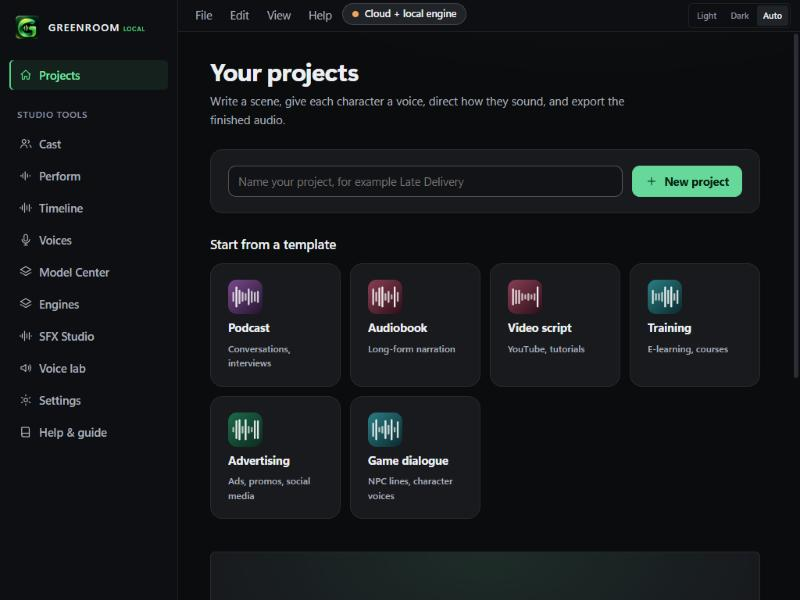
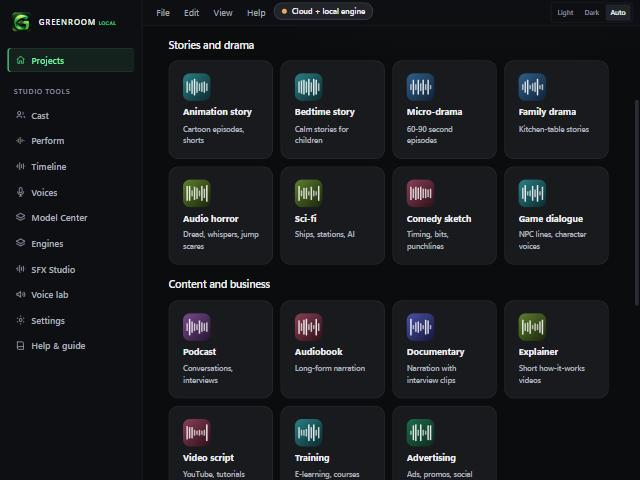
0.2.3: 15 templates (animation story, micro-drama, family drama, horror, sci-fi, comedy, more), optional card art

diff --git a/app/src/templates.ts b/app/src/templates.ts
@@ -1,9 +1,107 @@
-/** Starting points on the home screen. Each is a short script in the normal `NAME: line` format, so it is edited like any other. */
-export interface Template { id: string; title: string; tagline: string; script: string }
+/** Starting points on the home screen. Each is a short script in the normal `NAME: line` format, so it is edited like any other.
+ *  A picture is optional: put `<id>.webp` in app/public/templates/ (see docs/TEMPLATE_ART_PROMPTS.md); without one the card shows a badge. */
+export type TemplateGroup = "story" | "content";
+export interface Template { id: string; title: string; tagline: string; group: TemplateGroup; script: string }
+
+export const GROUP_LABEL: Record<TemplateGroup, string> = { story: "Stories and drama", content: "Content and business" };
 
 export const TEMPLATES: Template[] = [
   {
-    id: "podcast", title: "Podcast", tagline: "Conversations, interviews",
+    id: "animation", title: "Animation story", tagline: "Cartoon episodes, shorts", group: "story",
+    script: `# Scene 1: The Glowing Path
+NARRATOR (storybook warm): Deep in Lantern Wood, where the trees hum at night, a small fox named Pip found something that was not supposed to be there.
+PIP (excited): [gasps] A robot! A real, actual robot, and he is stuck in the mud!
+BOLO (robotic, sleepy): Greetings. I am Bolo. I appear to have been asleep for... [beeps] four hundred years.
+PIP (laughs): Four hundred years? You must be starving.
+BOLO: I run on moonlight. And kindness. Mostly moonlight.
+
+# Scene 2: The Missing Moon
+NARRATOR: But that very night, the moon went out like a candle, and the whole wood fell silent.
+PIP (worried, whispering): Bolo, if you run on moonlight... what happens now?
+BOLO (calm, a little brave): Now, Pip, we go and find it.
+`,
+  },
+  {
+    id: "bedtime", title: "Bedtime story", tagline: "Calm stories for children", group: "story",
+    script: `# The Little Paper Boat
+NARRATOR (soft, slow): Once, when the town was fast asleep, a little paper boat floated down the rain gutter, all the way to the edge of the world.
+NARRATOR: The moon watched from above and said, very quietly, where are you going, little boat?
+BOAT (tiny, sleepy voice): I am going to find the place where all the lost wishes go.
+MOON (warm, gentle): Then follow my light. And do not worry. The night is long, and you are never alone.
+NARRATOR (whispering): And so the little boat drifted on, rocking gently, gently, gently... until it, too, fell asleep.
+`,
+  },
+  {
+    id: "microdrama", title: "Micro-drama", tagline: "60-90 second episodes", group: "story",
+    script: `# Episode 1: The Wrong Message
+MAYA (shocked, low): You sent it to me. The message about the wedding. It was not meant for me.
+DANIEL (panicked): Maya, wait. Let me explain.
+MAYA (cold): Explain what? That you are marrying her on Saturday, or that you still wear the ring I gave you?
+DANIEL (quietly): I was going to tell you tonight.
+MAYA: [laughs bitterly] Tonight. Of course.
+DANIEL (desperate): Please. Just give me one minute.
+MAYA (turning to leave): You have used all of them.
+VOICE ON PHONE (distant, urgent): Daniel? It is your bride. Why is there a woman's voice in your apartment?
+`,
+  },
+  {
+    id: "familydrama", title: "Family drama", tagline: "Kitchen-table stories", group: "story",
+    script: `# Scene 1: Sunday Dinner
+MAMA (warm, firm): Everyone sit. The food is getting cold, and so is my patience.
+KOLA (hesitant): Mama, before we eat, I need to tell you something.
+MAMA (watching him): You have been rehearsing that for three weeks. Say it.
+KOLA: I left the job. I am starting my own business.
+AUNTY BISI (gasps): Ah! Without telling us?
+MAMA (quietly): Let him finish.
+KOLA (steady): I am not asking permission, Mama. I am asking you to believe in me.
+MAMA (after a long pause): Sit down, my son. Eat first. Then tell me everything.
+`,
+  },
+  {
+    id: "horror", title: "Audio horror", tagline: "Dread, whispers, jump scares", group: "story",
+    script: `# The Night Shift
+NARRATOR (low, steady): The lights in the east corridor had been flickering since midnight.
+GUARD (uneasy): Control, this is Ellis. I am hearing something on level three. Like... someone humming.
+CONTROL (static, distant): Level three has been empty since six, Ellis.
+GUARD (whispering): [breathes in] It is getting closer.
+CHILD'S VOICE (soft, singing, right behind): Ellis... Ellis... you left the door open.
+GUARD (terrified): [gasps] Control? Control, answer me!
+CONTROL (static): ...Ellis? Who are you talking to?
+`,
+  },
+  {
+    id: "scifi", title: "Sci-fi", tagline: "Ships, stations, AI", group: "story",
+    script: `# Bridge, Deck One
+CAPTAIN RUIZ (calm, tired): Status, Nova.
+NOVA (smooth, synthetic): Captain, the signal is repeating from inside our own hull.
+CAPTAIN RUIZ: Inside. [sighs] Of course it is.
+ENGINEER OKAFOR (alarmed): Captain, life support just dropped four percent. Something is using our air.
+NOVA (carefully): I have a suggestion. I should not make it aloud.
+CAPTAIN RUIZ (slowly): Nova. Who else is listening?
+`,
+  },
+  {
+    id: "comedy", title: "Comedy sketch", tagline: "Timing, bits, punchlines", group: "story",
+    script: `# The Returns Desk
+CUSTOMER (flustered): I would like to return this. It does not work.
+CLERK (dead calm): Sir, that is a banana.
+CUSTOMER: Exactly! I have peeled it six times and it is still a banana.
+CLERK (pause, then): [sighs] Do you have the receipt?
+CUSTOMER (proud): I ate the receipt. It was part of the meal deal.
+CLERK: Then I am afraid there is nothing I can do. [beat] Unless it gets worse.
+`,
+  },
+  {
+    id: "game", title: "Game dialogue", tagline: "NPC lines, character voices", group: "story",
+    script: `# Village gate
+GUARD (gruff): Halt. State your business in Brightwater.
+HERO (steady): I am looking for the blacksmith. They say she can mend anything.
+GUARD: [sighs] Everyone is looking for her lately. Second street on the left, and mind the dogs.
+MERCHANT (cheerful): Fresh bread, warm from the oven! Best price in the valley!
+`,
+  },
+  {
+    id: "podcast", title: "Podcast", tagline: "Conversations, interviews", group: "content",
     script: `# Episode 1: Cold open
 HOST (warm): Welcome back to the show. Today we are talking about the thing everyone is afraid to try.
 GUEST (curious): [laughs] Starting with the scary part. I like it.
@@ -12,7 +110,7 @@ GUEST (thoughtful): Honestly, I was bored, and a little bit stubborn.
 `,
   },
   {
-    id: "audiobook", title: "Audiobook", tagline: "Long-form narration",
+    id: "audiobook", title: "Audiobook", tagline: "Long-form narration", group: "content",
     script: `# Chapter 1
 Narrator: The rain had been falling on the harbour for three days when the letter finally arrived.
 
@@ -20,7 +118,22 @@ Narrator: Mara read it twice, folded it into her coat, and walked out into the g
 `,
   },
   {
-    id: "video", title: "Video script", tagline: "YouTube, tutorials",
+    id: "documentary", title: "Documentary", tagline: "Narration with interview clips", group: "content",
+    script: `# Opening
+Narrator (measured, grave): For nine hundred years, the river has decided who eats and who goes hungry.
+Fisherman (weathered, quiet): My father fished here. His father too. The river does not care about us. We care about the river.
+Narrator: But this season, the water is rising earlier than anyone remembers.
+`,
+  },
+  {
+    id: "explainer", title: "Explainer", tagline: "Short how-it-works videos", group: "content",
+    script: `# How a battery works
+Narrator (friendly, clear): Every battery is a tiny chemical sandwich with two ends, one that wants to give electrons away, and one that wants to receive them.
+Narrator: When you connect a wire between the two, the electrons rush through it, and that rush is the electricity that lights your phone.
+`,
+  },
+  {
+    id: "video", title: "Video script", tagline: "YouTube, tutorials", group: "content",
     script: `# Intro
 Narrator (upbeat): In the next five minutes you will learn the one trick that saves hours every week.
 
@@ -29,7 +142,7 @@ Narrator: First, open the settings panel. Do not worry, nothing here can break.
 `,
   },
   {
-    id: "training", title: "Training", tagline: "E-learning, courses",
+    id: "training", title: "Training", tagline: "E-learning, courses", group: "content",
     script: `# Module 1: Safety basics
 Instructor (calm): Before you start, check that your workspace is clear and your equipment is switched off.
 Learner (unsure): What if something is already running?
@@ -37,22 +150,14 @@ Instructor: Good question. Stop, switch it off, and tell your supervisor before 
 `,
   },
   {
-    id: "advert", title: "Advertising", tagline: "Ads, promos, social media",
+    id: "advert", title: "Advertising", tagline: "Ads, promos, social media", group: "content",
     script: `# 30 second spot
 Announcer (energetic): Tired of slow mornings? Meet Dawn, the coffee that wakes up before you do.
 Customer (delighted): [gasps] Is that really coffee? It smells amazing!
 Announcer: Dawn. Start your day properly.
 `,
   },
-  {
-    id: "game", title: "Game dialogue", tagline: "NPC lines, character voices",
-    script: `# Village gate
-GUARD (gruff): Halt. State your business in Brightwater.
-HERO (steady): I am looking for the blacksmith. They say she can mend anything.
-GUARD: [sighs] Everyone is looking for her lately. Second street on the left, and mind the dogs.
-MERCHANT (cheerful): Fresh bread, warm from the oven! Best price in the valley!
-`,
-  },
 ];
 
 export const templateById = (id: string): Template | undefined => TEMPLATES.find((t) => t.id === id);
+export const templateImage = (id: string): string => `/templates/${id}.webp`;

diff --git a/app/src/screens/Home.tsx b/app/src/screens/Home.tsx
@@ -3,7 +3,7 @@ import { api, type ProjectInfo } from "../api";
 import { Cover } from "../avatar";
 import { useApp } from "../ctx";
 import { Plus } from "../icons";
-import { TEMPLATES } from "../templates";
+import { GROUP_LABEL, TEMPLATES, templateImage, type TemplateGroup } from "../templates";
 
 export default function Home() {
   const { openProject, createProject, keys, go } = useApp();
@@ -40,17 +40,21 @@ export default function Home() {
           <Plus size={16} /> New project
         </button>
       </form>
-      <div className="templates" aria-label="Start from a template">
-        <h2>Start from a template</h2>
-        <div className="template-grid">
-          {TEMPLATES.map((t) => (
-            <button key={t.id} className="card template-card" onClick={() => void createProject(name.trim() || t.title, t.script)}>
-              <Cover seed={"tpl-" + t.id} size={44} />
-              <strong>{t.title}</strong>
-              <span className="muted small">{t.tagline}</span>
-            </button>
-          ))}
-        </div>
+      <div className="templates">
+        {(["story", "content"] as TemplateGroup[]).map((g) => (
+          <div key={g}>
+            <h2>{GROUP_LABEL[g]}</h2>
+            <div className="template-grid" role="list" aria-label={GROUP_LABEL[g]}>
+              {TEMPLATES.filter((t) => t.group === g).map((t) => (
+                <button key={t.id} role="listitem" className="card template-card" onClick={() => void createProject(name.trim() || t.title, t.script)}>
+                  <TemplateArt id={t.id} />
+                  <strong>{t.title}</strong>
+                  <span className="muted small">{t.tagline}</span>
+                </button>
+              ))}
+            </div>
+          </div>
+        ))}
       </div>
       {list === null ? (
         <p className="muted">Loading…</p>
@@ -94,4 +98,11 @@ export default function Home() {
       )}
     </section>
   );
+}
+
+/** A picture when one has been added to public/templates, otherwise the generated badge. */
+function TemplateArt({ id }: { id: string }) {
+  const [missing, setMissing] = useState(false);
+  if (missing) return <Cover seed={"tpl-" + id} size={44} />;
+  return <img className="template-art" src={templateImage(id)} alt="" loading="lazy" onError={() => setMissing(true)} />;
 }

diff --git a/app/src/templates.test.ts b/app/src/templates.test.ts
@@ -12,11 +12,24 @@ describe("home templates", () => {
       expect(p.characters.length, t.id).toBeGreaterThanOrEqual(1);
     }
   });
-  it("has unique ids and covers the six starting points", () => {
-    expect(new Set(TEMPLATES.map((t) => t.id)).size).toBe(6);
+  it("has unique ids, fifteen starting points and both groups", () => {
+    expect(new Set(TEMPLATES.map((t) => t.id)).size).toBe(15);
+    expect(new Set(TEMPLATES.map((t) => t.group))).toEqual(new Set(["story", "content"]));
+  });
+  it("includes the animation and micro-drama starters with named characters", () => {
+    const ani = parseScript(TEMPLATES.find((t) => t.id === "animation")!.script, [], []);
+    expect(ani.scenes.length).toBe(2);
+    expect(ani.characters.map((c) => c.name)).toEqual(expect.arrayContaining(["PIP", "BOLO", "NARRATOR"]));
+    const micro = parseScript(TEMPLATES.find((t) => t.id === "microdrama")!.script, [], []);
+    expect(micro.lines.length).toBeGreaterThanOrEqual(6);
+  });
+  it("lists every template in the art prompt guide", async () => {
+    const { readFileSync } = await import("node:fs");
+    const doc = readFileSync(new URL("../../docs/TEMPLATE_ART_PROMPTS.md", import.meta.url), "utf-8");
+    for (const t of TEMPLATES) expect(doc, t.id).toContain("`" + t.id + ".webp`");
   });
   it("dialogue templates have more than one speaker", () => {
-    const multi = ["podcast", "training", "advert", "game"];
+    const multi = ["podcast", "training", "advert", "game", "familydrama", "horror", "scifi", "comedy"];
     for (const id of multi) expect(parseScript(TEMPLATES.find((t) => t.id === id)!.script, [], []).characters.length, id).toBeGreaterThan(1);
   });
 });

diff --git a/app/src/styles/screens.css b/app/src/styles/screens.css
@@ -167,3 +167,6 @@
 .engine-chip.ready i { background:var(--ok); }
 .engine-chip.partial i { background:var(--warn); }
 .engine-chip.setup i { background:var(--err); }
+
+.templates h2 { margin: 18px 0 0; }
+.template-art { width:100%; aspect-ratio:4/3; object-fit:cover; border-radius:10px; }

diff --git a/docs/HOME_AND_TEMPLATES.md b/docs/HOME_AND_TEMPLATES.md
@@ -1,9 +1,14 @@
-# Home templates and the engine chip (v0.2.2)
+# Home templates and the engine chip (v0.2.3)
 
 Learned from the Vois Studio review: a first screen that offers a start, and a header that says whether you can make speech right now.
 
 ## Start from a template
-The Projects screen now shows six starting points: Podcast, Audiobook, Video script, Training, Advertising and Game dialogue.
+The Projects screen shows fifteen starting points in two groups.
+
+- **Stories and drama:** Animation story (two scenes, narrator, a fox and a robot), Bedtime story, Micro-drama (a 60-90 second episode with a hook, a twist and a cliffhanger), Family drama, Audio horror, Sci-fi, Comedy sketch, Game dialogue.
+- **Content and business:** Podcast, Audiobook, Documentary, Explainer, Video script, Training, Advertising.
+
+Each card shows a picture if `app/public/templates/<id>.webp` exists, otherwise a coloured badge. Prompts for all fifteen pictures are in [TEMPLATE_ART_PROMPTS.md](TEMPLATE_ART_PROMPTS.md); a test checks every template is listed there.
 
 ![Templates on the home screen](img/home-templates.jpg)
 
@@ -25,10 +30,12 @@ A small pill next to the Light, Dark and Auto buttons says what you can do right
 | Set up voices | Nothing is ready yet. |
 
 ## What was checked
-- Unit tests: every template parses into at least two lines, one scene and one character; dialogue templates have two or more speakers; the chip's five states.
-- Browser demo: six template cards render, pressing Game dialogue creates a project with 3 characters and 4 lines in 1 scene.
+- Unit tests: every template parses into at least two lines, one scene and one character; the animation starter has two scenes and PIP, BOLO and NARRATOR; dialogue templates have two or more speakers; every template appears in the art prompt guide; the chip's states.
+- Browser demo: fifteen template cards render in two groups, with the badge fallback while no pictures exist; earlier, six cards rendered, pressing Game dialogue creates a project with 3 characters and 4 lines in 1 scene.
 
 ## Not checked
 - Saving and reopening a template project in the installed app (it uses the same save path as a new project).
 - The chip against a real Piper, Chatterbox or Wazobia install. In the demo it only shows the demo backend's state.
 - Narrow window layout beyond the pane size used here.
+
+- The story scripts are short starters written by Claude. Read them, especially the family drama, before you rely on their tone or cultural details.
